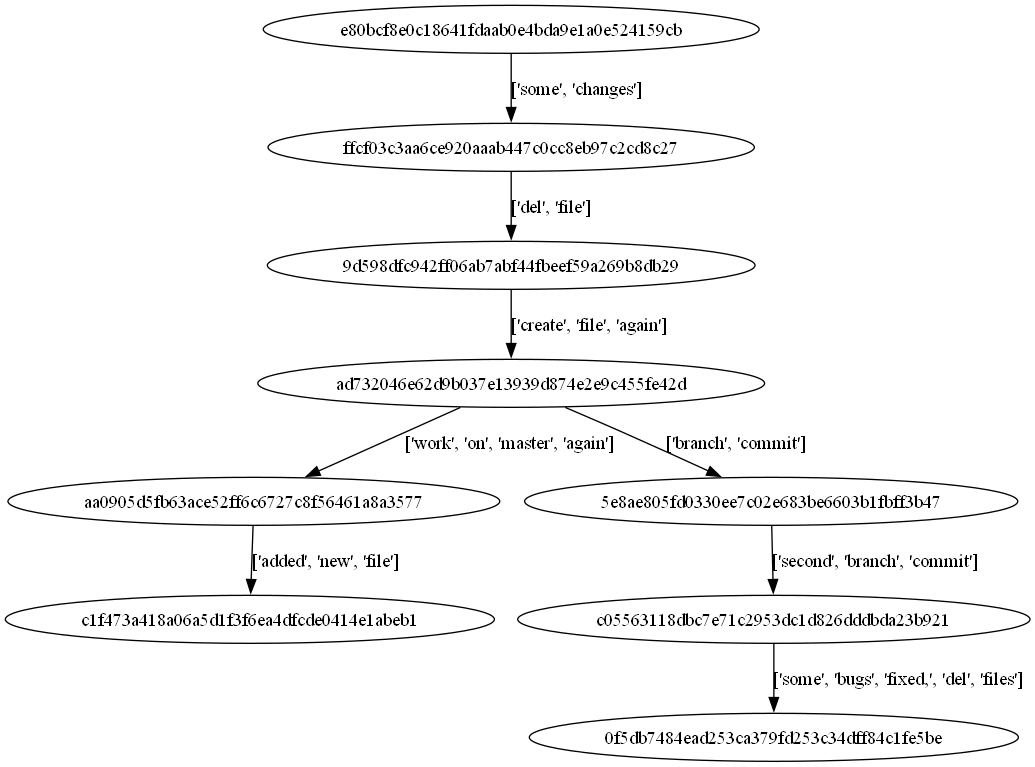
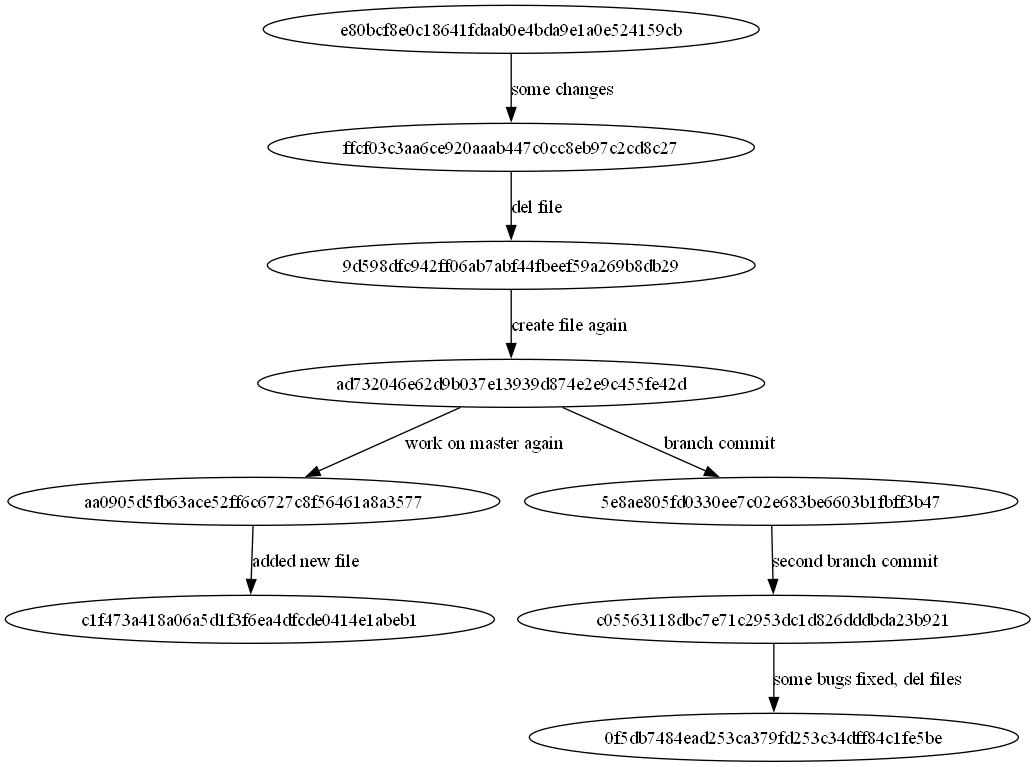
added tests

diff --git a/main.py b/main.py
@@ -2,21 +2,21 @@ import os
 import graphviz
 
 file_hash = r''
-commits = dict()
 repo_path = r''
 prog_path = r''
-
-def init():
-    with open('config.yaml') as f:
-        global prog_path
-        prog_path = f.readline().split()[1].replace('\\', '\\\\')
-        global repo_path
-        repo_path = f.readline().split()[1].replace('\\', '\\\\')
-        global file_hash
-        file_hash = f.readline().split()[1]
+commits = dict()
+def init(path):
+    try:
+        with open(path) as f:
+            prog_path = f.readline().split()[1].replace('\\', '\\\\')
+            repo_path = f.readline().split()[1].replace('\\', '\\\\')
+            file_hash = f.readline().split()[1]
+            os.chdir(repo_path)
+            return (prog_path, repo_path, file_hash)
+    except: # файл не найден
+        return ("", "", "")
 
 def get_commits():
-    os.chdir(repo_path)
     output = os.popen('git log --all --pretty=format:"%H %P %s%d"').read().split("\n") # получим список всех коммитов в нужном нам формате
     for commit in output:
         commit = commit.split()
@@ -30,6 +30,7 @@ def get_commits():
                 commits[commit[0]].append(commit[i])
             else:
                 break
+    return commits
 
 true_commits = dict()
 def check_dirs(commit, hash1): # я не понимаю, как идентифицировать файл, если в каждом коммите у него разный хэш?
@@ -58,7 +59,7 @@ def select_commits():
                 continue
 
         check_dirs(commit, hash) # пройдёмся по объектам коммита. проверим все файлы на совпадение
-
+    return true_commits
 
 def build_graph():
     dot = []
@@ -66,7 +67,7 @@ def build_graph():
     for commit1 in true_commits: # проходимся по словарю
         for commit2 in true_commits:
             if true_commits[commit2][0] == commit1: # если хэш родителя какого-то коммита равен хэшу другого коммита, то они связаны
-                dot.append(f'"{commit1}" -> "{commit2}" [label="{true_commits[commit2][1:]}"]')
+                dot.append(f'"{commit1}" -> "{commit2}" [label="{' '.join(true_commits[commit2][1:])}"]')
     dot.append('}')
     return '\n'.join(dot)
 
@@ -81,7 +82,7 @@ def show_graph(dot_graph):
 
 
 if __name__ == "__main__":
-    init()
+    (prog_path, repo_path, file_hash) = init('config.yaml')
     get_commits()
     select_commits()
     graphv = build_graph()

diff --git a/TestVisualizer.py b/TestVisualizer.py
@@ -1,0 +1,20 @@
+import unittest
+from main import init, get_commits, select_commits, build_graph
+
+class TestVisualizer(unittest.TestCase):
+    def test_init_file(self):
+        self.assertEqual(init('asdf'), ("", "", ""))
+
+    def test_get_commits(self):
+        init('config.yaml')
+        commits = {'c1f473a418a06a5d1f3f6ea4dfcde0414e1abeb1': ['aa0905d5fb63ace52ff6c6727c8f56461a8a3577', 'added', 'new', 'file'], 'aa0905d5fb63ace52ff6c6727c8f56461a8a3577': ['ad732046e62d9b037e13939d874e2e9c455fe42d', 'work', 'on', 'master', 'again'], '0f5db7484ead253ca379fd253c34dff84c1fe5be': ['c05563118dbc7e71c2953dc1d826dddbda23b921', 'some', 'bugs', 'fixed,', 'del', 'files'], 'c05563118dbc7e71c2953dc1d826dddbda23b921': ['5e8ae805fd0330ee7c02e683be6603b1fbff3b47', 'second', 'branch', 'commit'], '5e8ae805fd0330ee7c02e683be6603b1fbff3b47': ['ad732046e62d9b037e13939d874e2e9c455fe42d', 'branch', 'commit'], 'ad732046e62d9b037e13939d874e2e9c455fe42d': ['9d598dfc942ff06ab7abf44fbeef59a269b8db29', 'create', 'file', 'again'], '9d598dfc942ff06ab7abf44fbeef59a269b8db29': ['ffcf03c3aa6ce920aaab447c0cc8eb97c2cd8c27', 'del', 'file'], 'ffcf03c3aa6ce920aaab447c0cc8eb97c2cd8c27': ['e80bcf8e0c18641fdaab0e4bda9e1a0e524159cb', 'some', 'changes'], 'e80bcf8e0c18641fdaab0e4bda9e1a0e524159cb': ['', 'init']}
+        self.assertEqual(get_commits(), commits)
+
+    def test_select_commits(self):
+        init('config.yaml')
+        get_commits()
+        true_commits = {'c1f473a418a06a5d1f3f6ea4dfcde0414e1abeb1': ['aa0905d5fb63ace52ff6c6727c8f56461a8a3577', 'added', 'new', 'file'], 'aa0905d5fb63ace52ff6c6727c8f56461a8a3577': ['ad732046e62d9b037e13939d874e2e9c455fe42d', 'work', 'on', 'master', 'again'], '0f5db7484ead253ca379fd253c34dff84c1fe5be': ['c05563118dbc7e71c2953dc1d826dddbda23b921', 'some', 'bugs', 'fixed,', 'del', 'files'], 'c05563118dbc7e71c2953dc1d826dddbda23b921': ['5e8ae805fd0330ee7c02e683be6603b1fbff3b47', 'second', 'branch', 'commit'], '5e8ae805fd0330ee7c02e683be6603b1fbff3b47': ['ad732046e62d9b037e13939d874e2e9c455fe42d', 'branch', 'commit'], 'ad732046e62d9b037e13939d874e2e9c455fe42d': ['9d598dfc942ff06ab7abf44fbeef59a269b8db29', 'create', 'file', 'again'], '9d598dfc942ff06ab7abf44fbeef59a269b8db29': ['ffcf03c3aa6ce920aaab447c0cc8eb97c2cd8c27', 'del', 'file'], 'ffcf03c3aa6ce920aaab447c0cc8eb97c2cd8c27': ['e80bcf8e0c18641fdaab0e4bda9e1a0e524159cb', 'some', 'changes'], 'e80bcf8e0c18641fdaab0e4bda9e1a0e524159cb': ['', 'init']}
+        self.assertEqual(select_commits(), true_commits)
+
+if __name__ == '__main__':
+    unittest.main()
